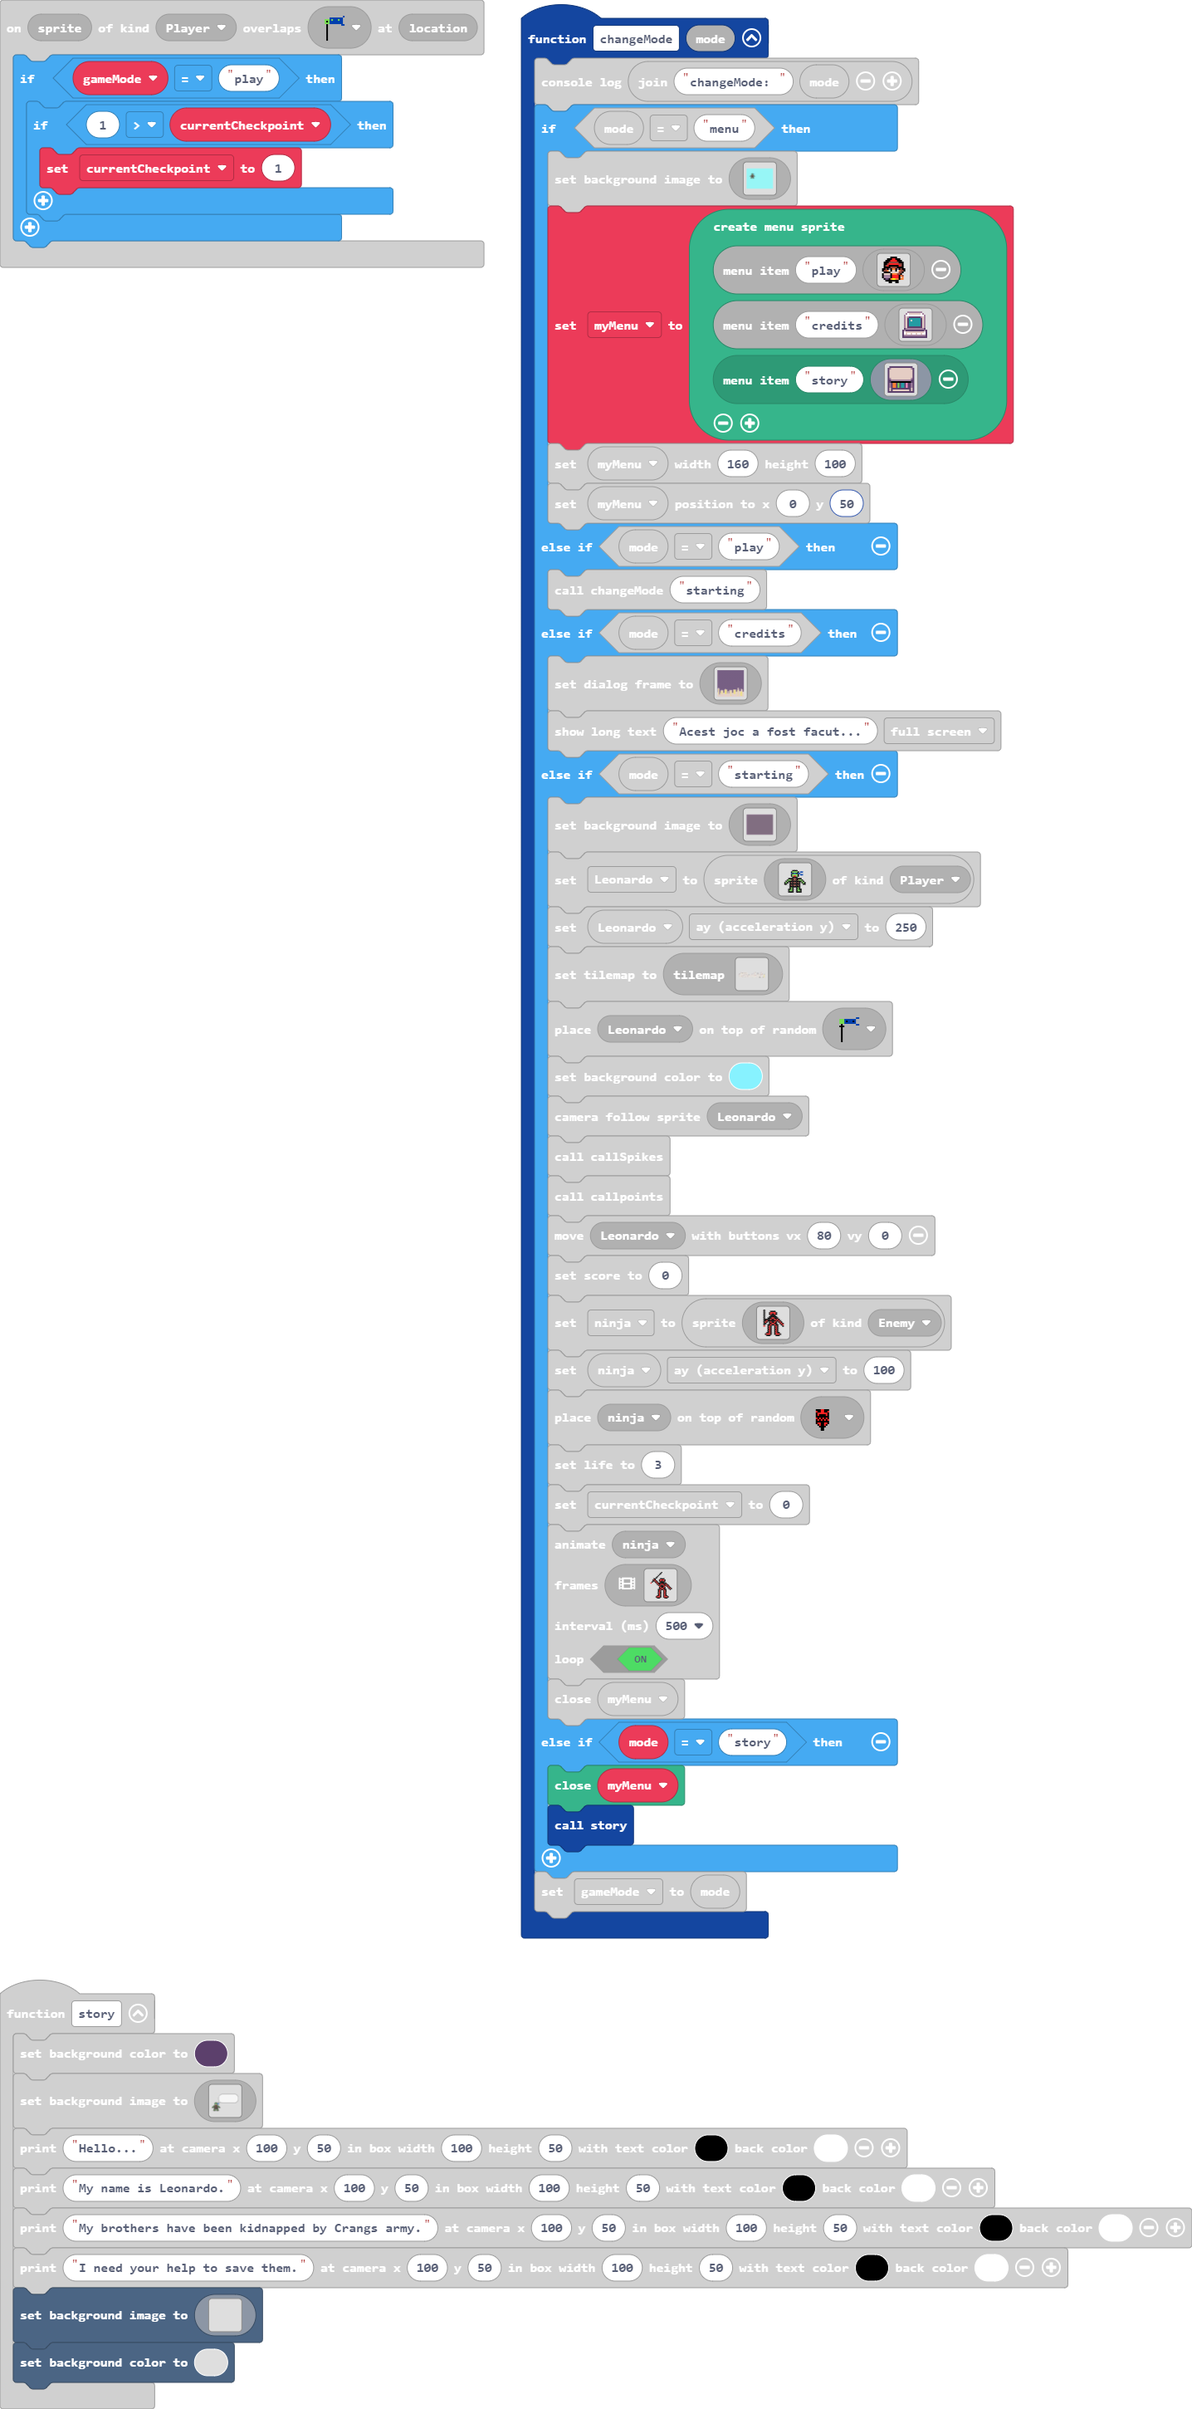
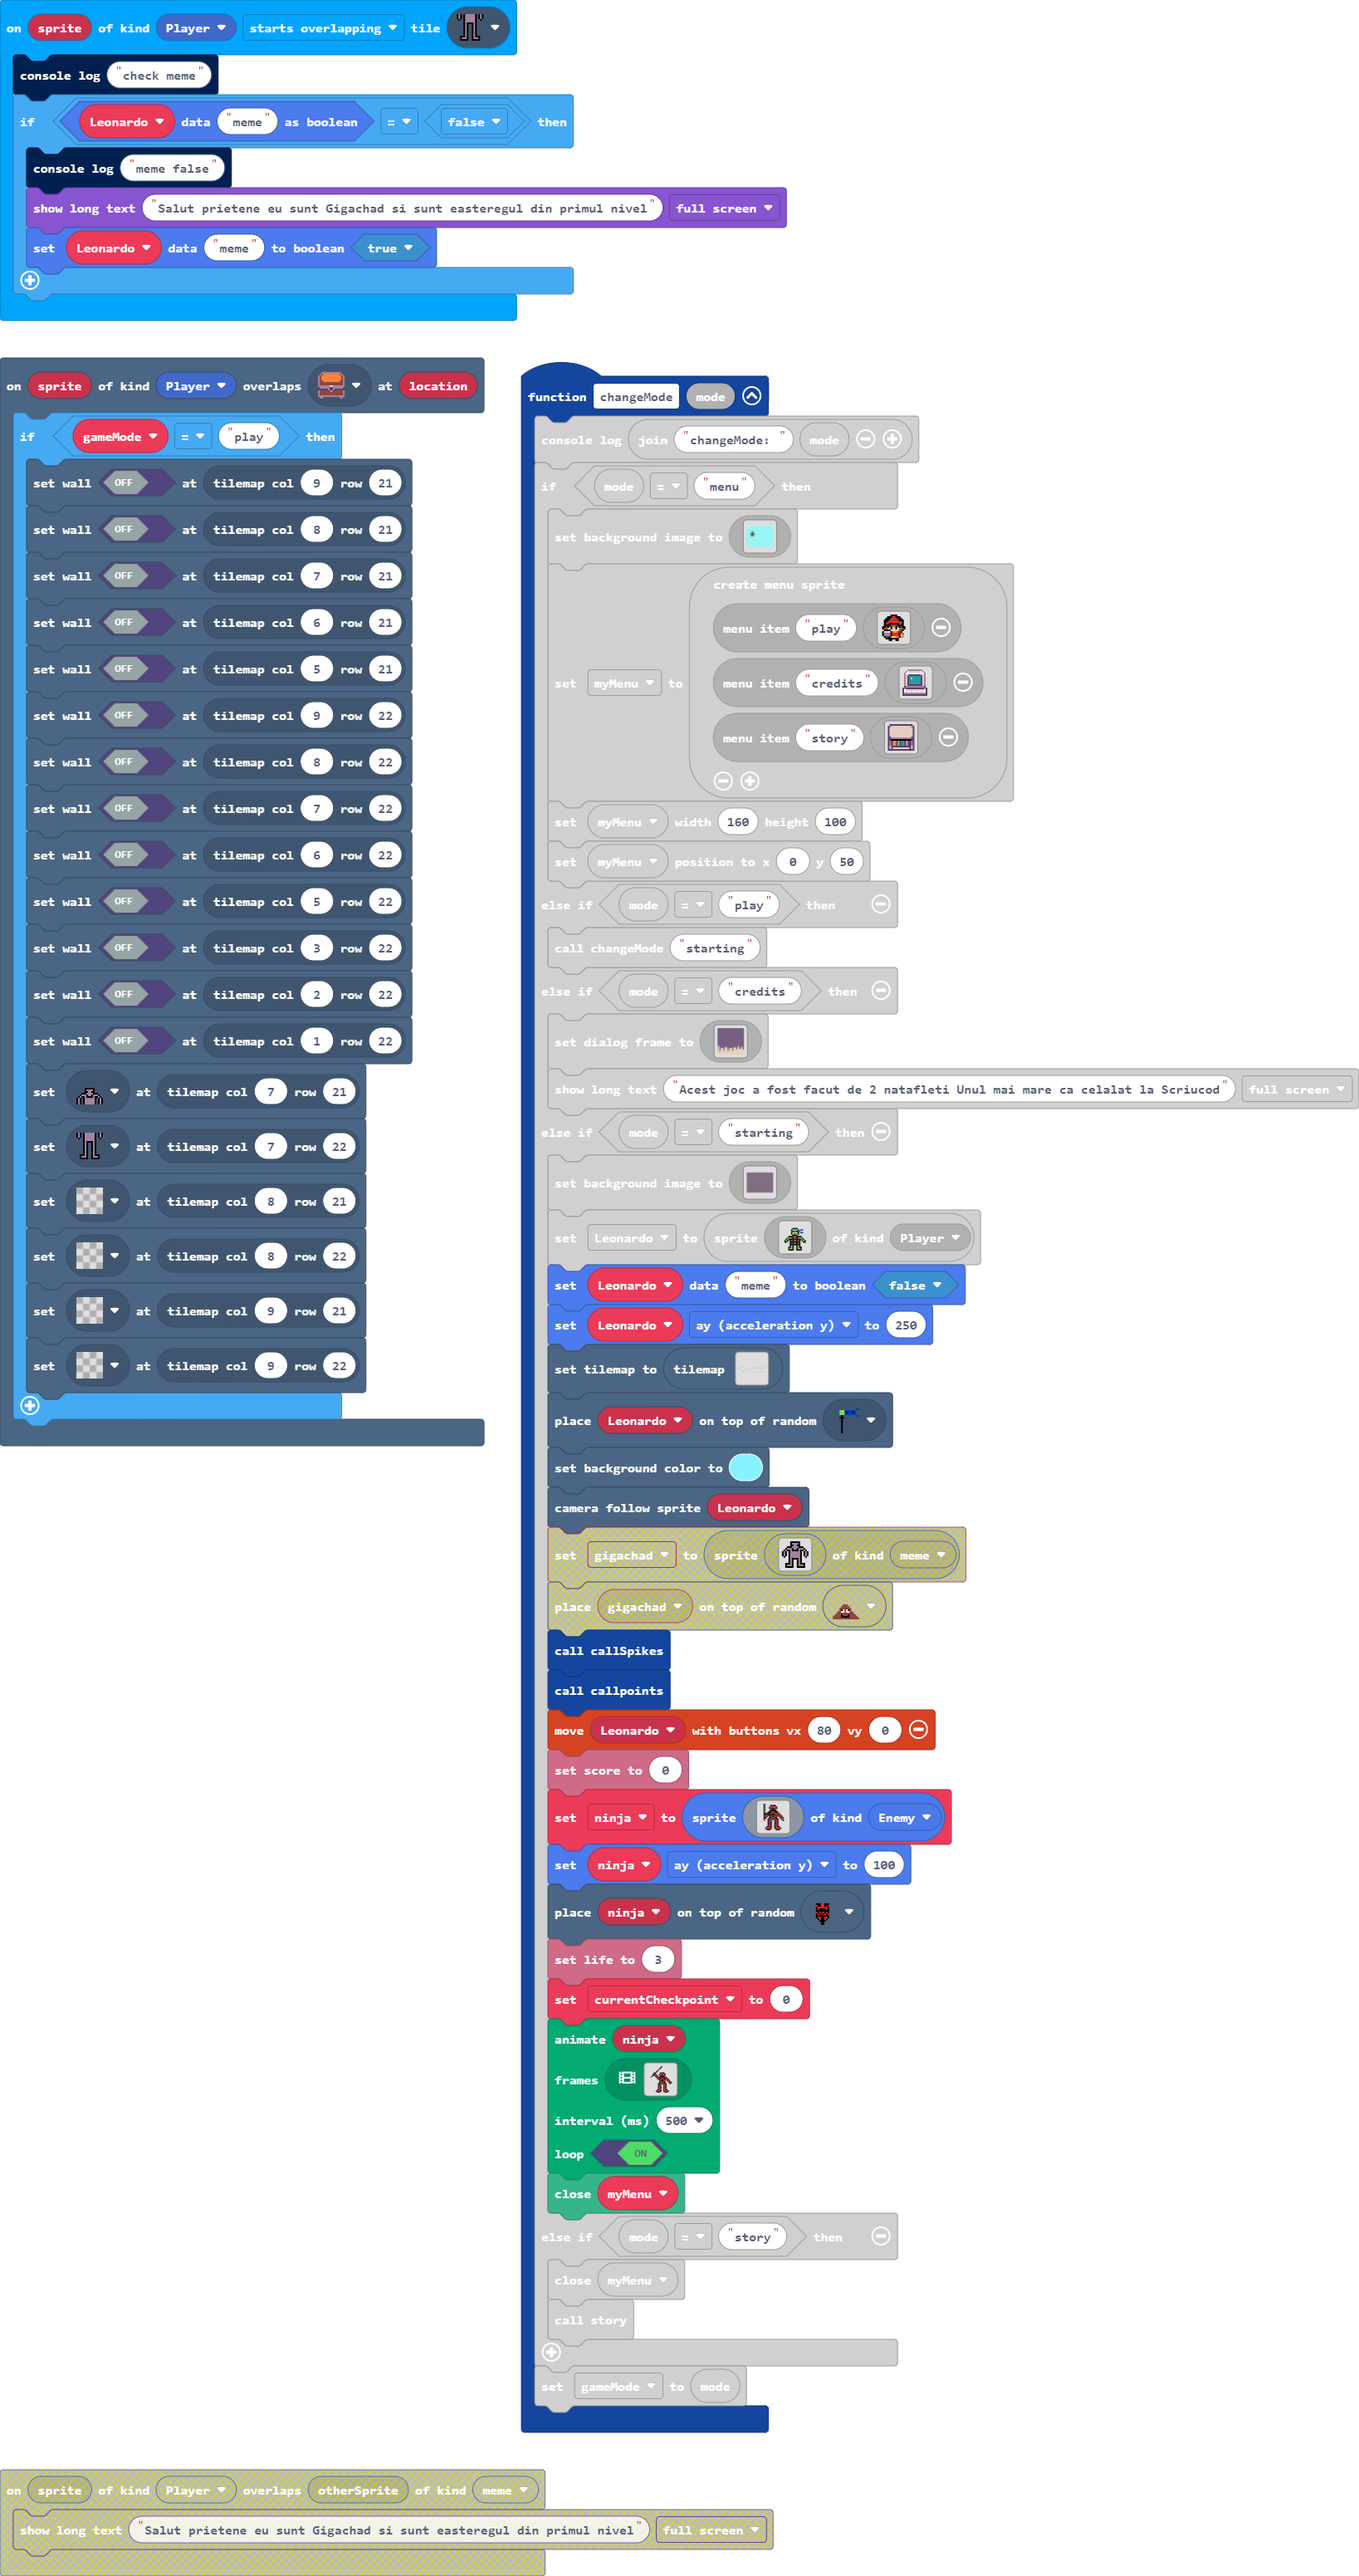
Update pxt.json, main.blocks, main.ts, tilemap.g.jres, tilemap.g.ts

diff --git a/tilemap.g.ts b/tilemap.g.ts
@@ -23,8 +23,6 @@ namespace myTiles {
     //% fixedInstance jres blockIdentity=images._tile
     export const tile3 = image.ofBuffer(hex``);
     //% fixedInstance jres blockIdentity=images._tile
-    export const tile9 = image.ofBuffer(hex``);
-    //% fixedInstance jres blockIdentity=images._tile
     export const tile12 = image.ofBuffer(hex``);
     //% fixedInstance jres blockIdentity=images._tile
     export const tile14 = image.ofBuffer(hex``);
@@ -32,6 +30,10 @@ namespace myTiles {
     export const tile13 = image.ofBuffer(hex``);
     //% fixedInstance jres blockIdentity=images._tile
     export const tile15 = image.ofBuffer(hex``);
+    //% fixedInstance jres blockIdentity=images._tile
+    export const tile9 = image.ofBuffer(hex``);
+    //% fixedInstance jres blockIdentity=images._tile
+    export const tile16 = image.ofBuffer(hex``);
 
     helpers._registerFactory("tilemap", function(name: string) {
         switch(helpers.stringTrim(name)) {
@@ -681,8 +683,27 @@ namespace myTiles {
 . . . . . . . . . . . . . . . . 
 . . . . . . . . . . . . . . . . 
 `, [myTiles.transparency16], TileScale.Sixteen);
+            case "level36":
+            case "level36":return tiles.createTilemap(hex`1000100000000000000000000000000000000000000000000000000000000000000000000000000000000000000000000000000000000000000000000000000000000000000000000000000000000000000000000000000000000000000000000000000000000000000000000000000000000000000000000000000000000000000000000000000000000000000000000000000000000000000000000000000000000000000000000000000000000000000000000000000000000000000000000000000000000000000000000000000000000000000000000000000000000000000000000000000000000000000000000000000000000000000000000000000000000000`, img`
+. . . . . . . . . . . . . . . . 
+. . . . . . . . . . . . . . . . 
+. . . . . . . . . . . . . . . . 
+. . . . . . . . . . . . . . . . 
+. . . . . . . . . . . . . . . . 
+. . . . . . . . . . . . . . . . 
+. . . . . . . . . . . . . . . . 
+. . . . . . . . . . . . . . . . 
+. . . . . . . . . . . . . . . . 
+. . . . . . . . . . . . . . . . 
+. . . . . . . . . . . . . . . . 
+. . . . . . . . . . . . . . . . 
+. . . . . . . . . . . . . . . . 
+. . . . . . . . . . . . . . . . 
+. . . . . . . . . . . . . . . . 
+. . . . . . . . . . . . . . . . 
+`, [myTiles.transparency16], TileScale.Sixteen);
             case "level1":
[2 lines of base64/hex data omitted]
 ....................................................................................................
 ....................................................................................................
 ....................................................................................................
@@ -704,11 +725,11 @@ namespace myTiles {
 .2................22..22..2..2..2.2.2222222222...2..2..2.2..2.2.2..2...2..22..2.....2222222...222.22
 .2................222222..2..2..2.2.2..2..2..2...2222222.22222222222...22222222....22..2..22..222.22
 .2..222222222222222.....22222222222.2..2..2..2...2..2..2.2222.2.2222...2..22..2....222222222..222.22
-.2222...............................2222222222...2..2..2.2..22222..2...22222222....2...2...2..222.22
-.2222...............22..............2..2..2..2...2222222.2222.2.2222...2..22..2....222222222..222.22
+.222222222..........................2222222222...2..2..2.2..22222..2...22222222....2...2...2..222.22
+.222222222..........22..............2..2..2..2...2222222.2222.2.2222...2..22..2....222222222..222.22
 .2222222222222222222..222222222222222222222222...2..2..2.2..22222..2...22222222....2...2...2..222.22
 ....................................................................................................
-`, [myTiles.transparency16,sprites.builtin.brick,myTiles.tile1,myTiles.tile2,myTiles.tile3,sprites.dungeon.stairSouth,sprites.dungeon.stairLadder,myTiles.tile4,myTiles.tile10,myTiles.tile8,myTiles.tile11,sprites.dungeon.chestClosed,myTiles.tile15], TileScale.Sixteen);
+`, [myTiles.transparency16,sprites.builtin.brick,myTiles.tile1,myTiles.tile2,myTiles.tile3,sprites.dungeon.stairSouth,sprites.dungeon.stairLadder,myTiles.tile4,myTiles.tile10,myTiles.tile8,myTiles.tile11,sprites.dungeon.chestClosed], TileScale.Sixteen);
         }
         return null;
     })
@@ -736,8 +757,6 @@ namespace myTiles {
             case "tile2":return tile2;
             case "myTile1":
             case "tile3":return tile3;
-            case "myTile7":
-            case "tile9":return tile9;
             case "myTile10":
             case "tile12":return tile12;
             case "myTile12":
@@ -746,6 +765,10 @@ namespace myTiles {
             case "tile13":return tile13;
             case "myTile13":
             case "tile15":return tile15;
+            case "myTile7":
+            case "tile9":return tile9;
+            case "myTile14":
+            case "tile16":return tile16;
         }
         return null;
     })

diff --git a/main.ts b/main.ts
@@ -87,9 +87,6 @@ controller.up.onEvent(ControllerButtonEvent.Pressed, function () {
 scene.onOverlapTile(SpriteKind.Player, assets.tile`myTile6`, function (sprite, location) {
     game.over(true)
 })
-sprites.onOverlap(SpriteKind.Player, SpriteKind.meme, function (sprite, otherSprite) {
-    game.showLongText("Salut prietene eu sunt Gigachad si sunt easteregul din primul nivel", DialogLayout.Full)
-})
 controller.B.onEvent(ControllerButtonEvent.Pressed, function () {
     if (gameMode == "play") {
         if (direction == 0) {
@@ -146,6 +143,14 @@ controller.A.onEvent(ControllerButtonEvent.Pressed, function () {
         if (Leonardo.vy == 0) {
             Leonardo.vy = -100
         }
+    }
+})
+events.tileEvent(SpriteKind.Player, assets.tile`myTile7`, events.TileEvent.StartOverlapping, function (sprite) {
+    console.log("check meme")
+    if (sprites.readDataBoolean(Leonardo, "meme") == false) {
+        console.log("meme false")
+        game.showLongText("Salut prietene eu sunt Gigachad si sunt easteregul din primul nivel", DialogLayout.Full)
+        sprites.setDataBoolean(Leonardo, "meme", true)
     }
 })
 controller.left.onEvent(ControllerButtonEvent.Pressed, function () {
@@ -510,6 +515,29 @@ controller.left.onEvent(ControllerButtonEvent.Released, function () {
 function play () {
 	
 }
+scene.onOverlapTile(SpriteKind.Player, sprites.dungeon.chestClosed, function (sprite, location) {
+    if (gameMode == "play") {
+        tiles.setWallAt(tiles.getTileLocation(9, 21), false)
+        tiles.setWallAt(tiles.getTileLocation(8, 21), false)
+        tiles.setWallAt(tiles.getTileLocation(7, 21), false)
+        tiles.setWallAt(tiles.getTileLocation(6, 21), false)
+        tiles.setWallAt(tiles.getTileLocation(5, 21), false)
+        tiles.setWallAt(tiles.getTileLocation(9, 22), false)
+        tiles.setWallAt(tiles.getTileLocation(8, 22), false)
+        tiles.setWallAt(tiles.getTileLocation(7, 22), false)
+        tiles.setWallAt(tiles.getTileLocation(6, 22), false)
+        tiles.setWallAt(tiles.getTileLocation(5, 22), false)
+        tiles.setWallAt(tiles.getTileLocation(3, 22), false)
+        tiles.setWallAt(tiles.getTileLocation(2, 22), false)
+        tiles.setWallAt(tiles.getTileLocation(1, 22), false)
+        tiles.setTileAt(tiles.getTileLocation(7, 21), assets.tile`myTile14`)
+        tiles.setTileAt(tiles.getTileLocation(7, 22), assets.tile`myTile7`)
+        tiles.setTileAt(tiles.getTileLocation(8, 21), assets.tile`transparency16`)
+        tiles.setTileAt(tiles.getTileLocation(8, 22), assets.tile`transparency16`)
+        tiles.setTileAt(tiles.getTileLocation(9, 21), assets.tile`transparency16`)
+        tiles.setTileAt(tiles.getTileLocation(9, 22), assets.tile`transparency16`)
+    }
+})
 sprites.onOverlap(SpriteKind.Player, SpriteKind.trap, function (sprite, otherSprite) {
     Leonardo.y += -7
     Leonardo.vy = -50
@@ -1062,30 +1090,12 @@ function changeMode (mode: string) {
             ...f77f..f77f...
             ...ffff..ffff...
             `, SpriteKind.Player)
+        sprites.setDataBoolean(Leonardo, "meme", false)
         Leonardo.ay = 250
         tiles.setCurrentTilemap(tilemap`level1`)
         tiles.placeOnRandomTile(Leonardo, assets.tile`myTile`)
         scene.setBackgroundColor(9)
         scene.cameraFollowSprite(Leonardo)
-        gigachad = sprites.create(img`
-            . . . . . f f f f f f . . . . . 
-            . . . . . f b b b b f . . . . . 
-            . . . . . f f b b f f . . . . . 
-            . . . f f f b b b b f f f . . . 
-            . . f b b b f b b f b b b f . . 
-            . f b f f b f f f f b f f b f . 
-            f b f . f b b b b b b f . f b f 
-            f b f . f b b b b b b f . f b f 
-            f b f . f b b b b b b f . f b f 
-            . f . . f b b b b b b f . . f . 
-            . . . . f b f f f f b f . . . . 
-            . . . . f b f . . f b f . . . . 
-            . . . . f b f . . f b f . . . . 
-            . . f f f b f . . f b f f f . . 
-            . . f b b b f . . f b b b f . . 
-            . . f f f f f . . f f f f f . . 
-            `, SpriteKind.meme)
-        tiles.placeOnRandomTile(gigachad, assets.tile`myTile13`)
         callSpikes()
         callpoints()
         controller.moveSprite(Leonardo, 80, 0)
@@ -1212,7 +1222,6 @@ scene.onOverlapTile(SpriteKind.Player, sprites.dungeon.stairSouth, function (spr
 })
 let points: Sprite = null
 let ninja: Sprite = null
-let gigachad: Sprite = null
 let myMenu: miniMenu.MenuSprite = null
 let spr_Spike: Sprite = null
 let direction = 0
